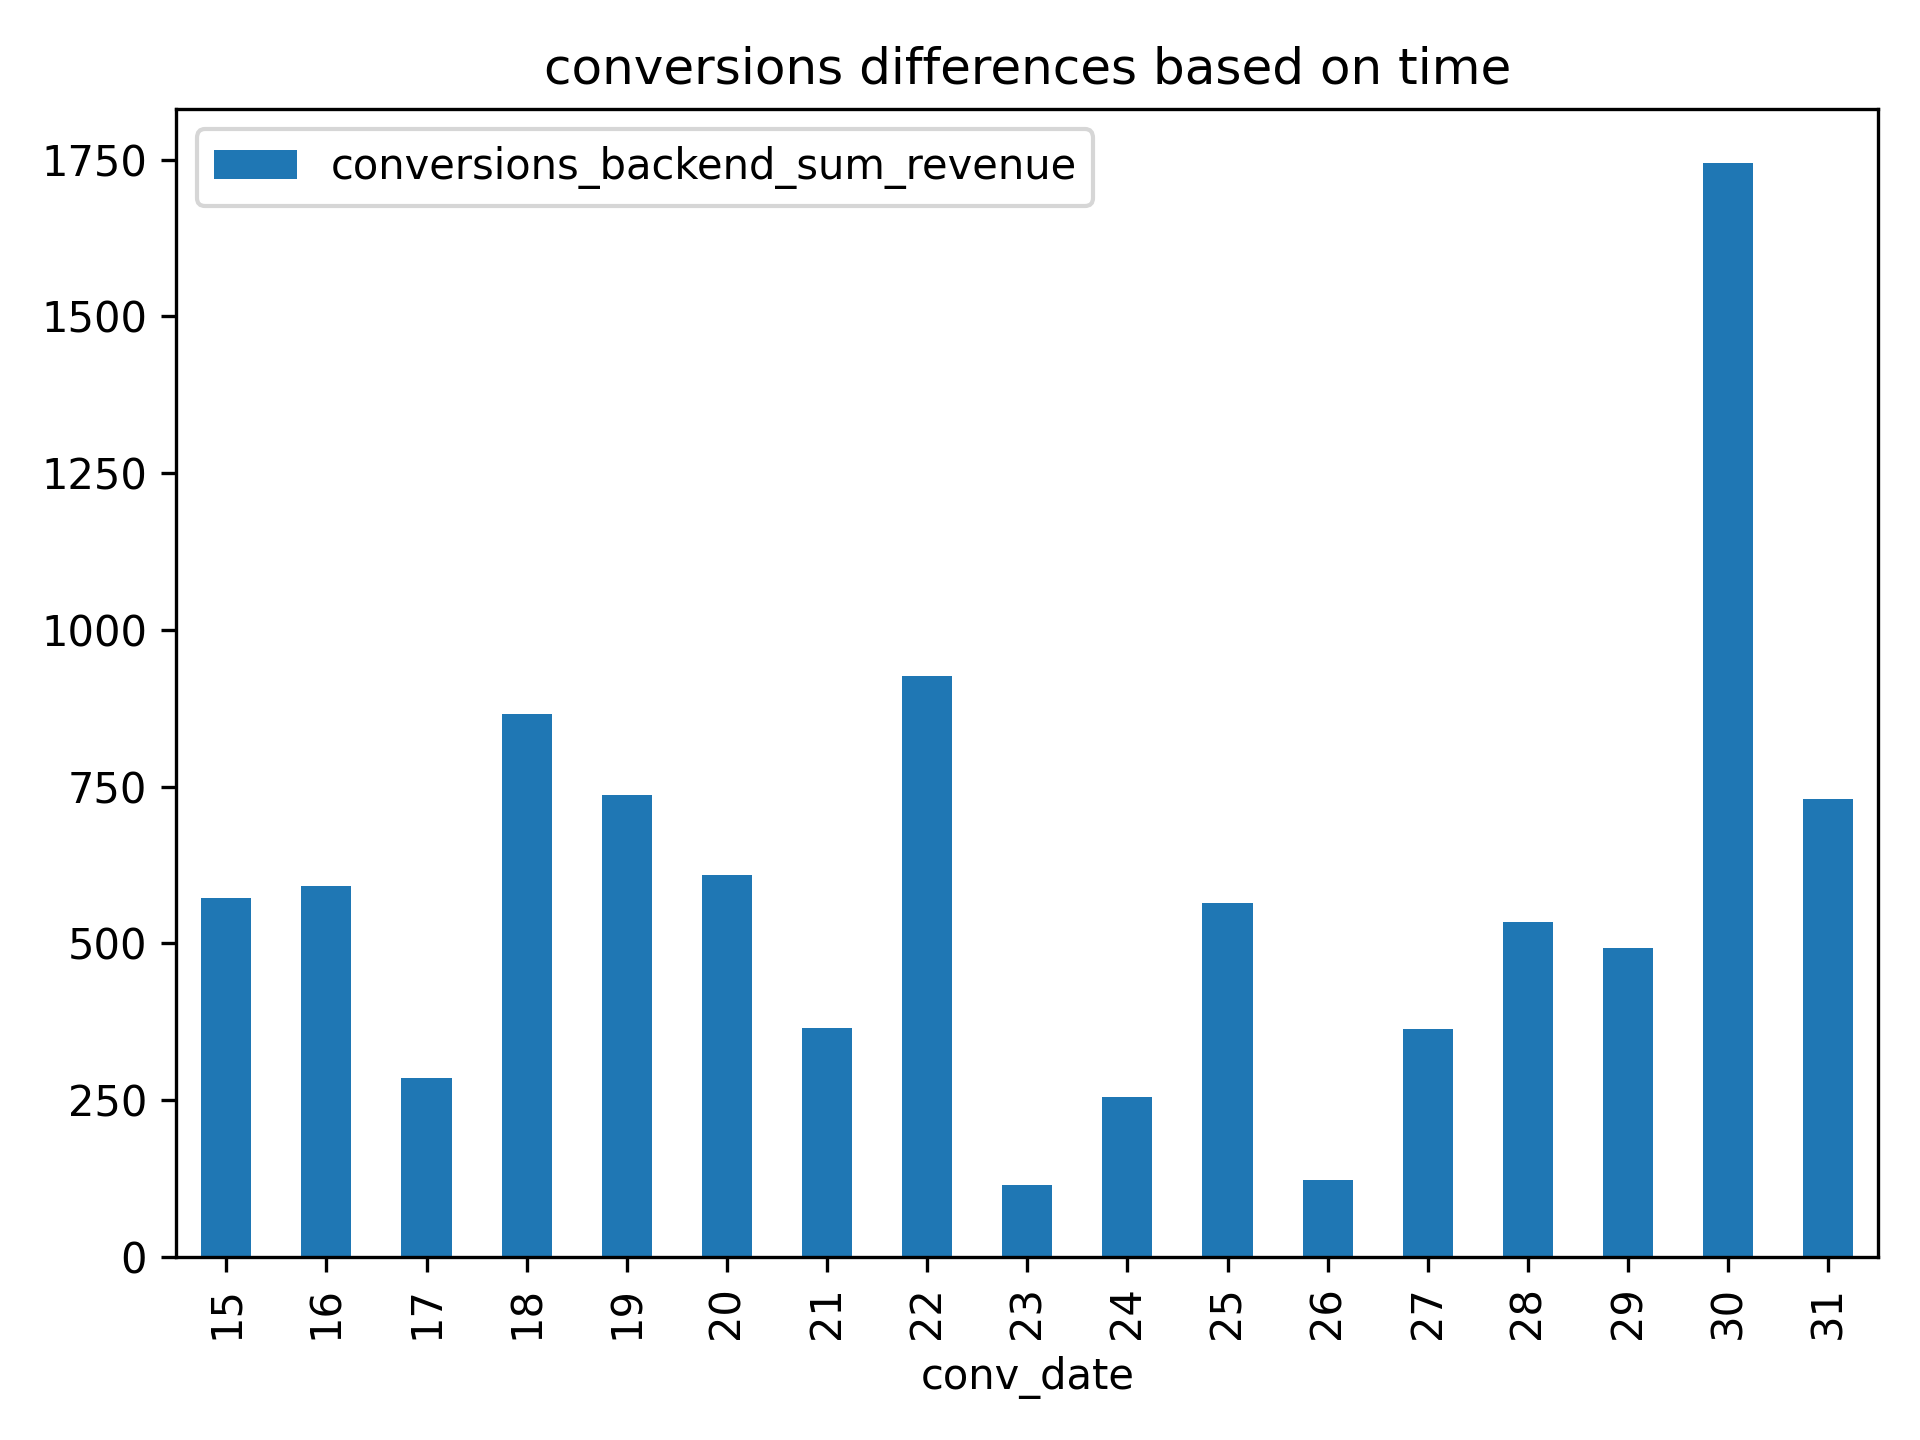
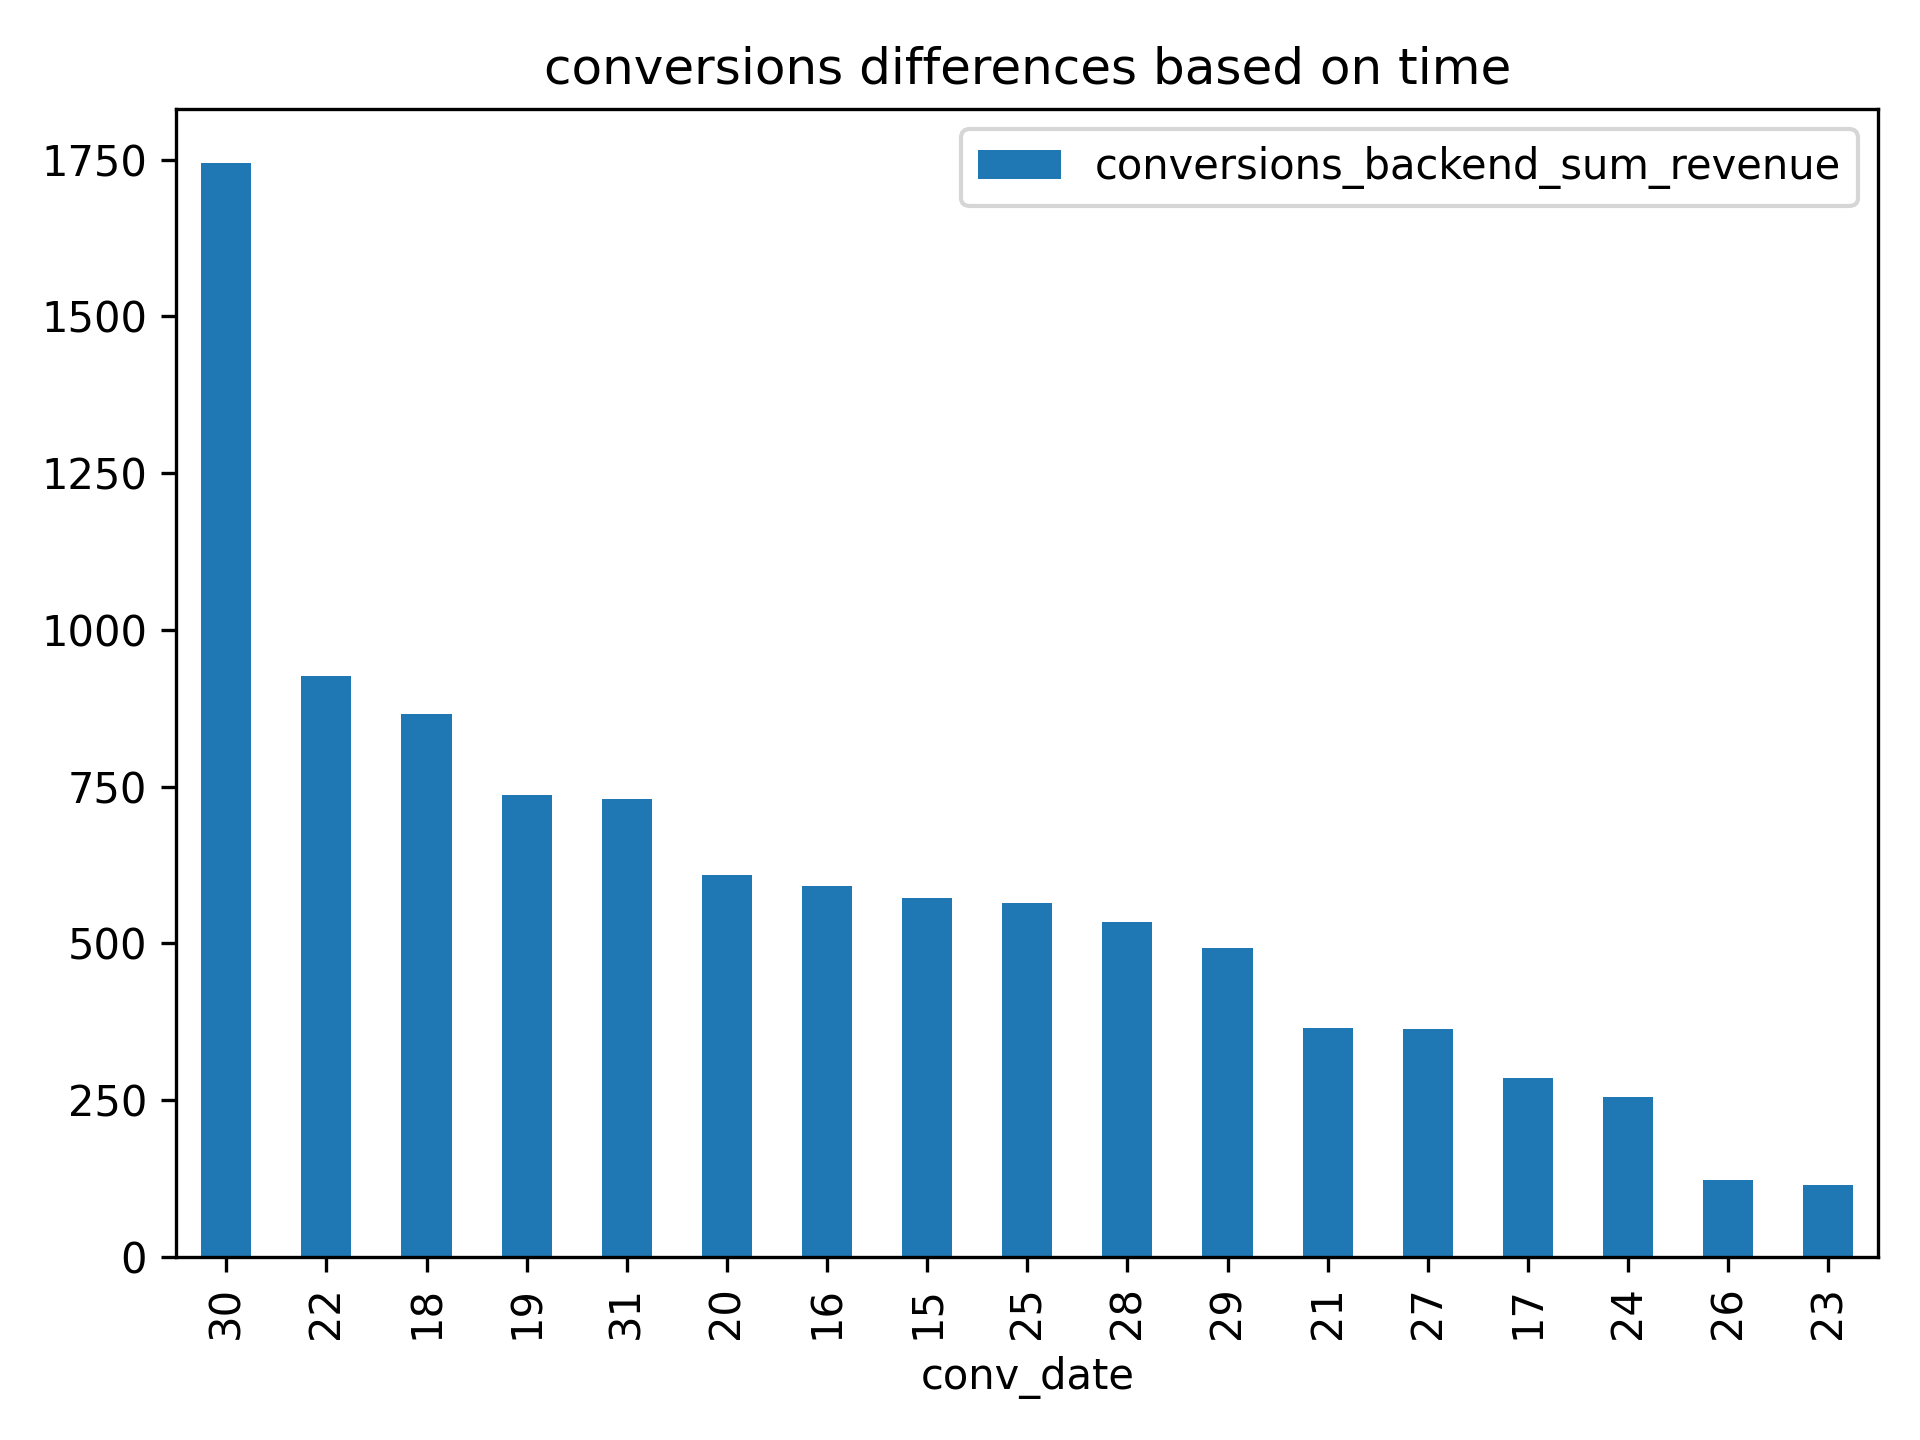
complete the comments

diff --git a/challenge.py b/challenge.py
@@ -18,6 +18,7 @@ def question1(con : sqlite3.Connection):
     # It is important to know combination of event_date and campaign_id columns make an unique index in 'api_adwords_costs' table
     # Since for every 'event_date' and 'campaign_id' in 'api_adwords_costs' table there are several sessions and cpc s in the 'session_sources' table, we have to calculate the average of their cpc to multiply to clicks
     query = """select api_adwords_costs.event_date,api_adwords_costs.campaign_id, sum(distinct api_adwords_costs.cost) as cost_from_api_adwords_costs, ROUND(cast(coalesce(avg(session_sources.cpc),0) as numeric)*sum(distinct api_adwords_costs.clicks), 3) as cost_from_session_sources
+                , ROUND(cast(coalesce(avg(session_sources.cpc),0) as numeric)*sum(distinct api_adwords_costs.clicks), 3) - sum(distinct api_adwords_costs.cost) as difference
                 from api_adwords_costs left join session_sources on session_sources.event_date = api_adwords_costs.event_date and session_sources.campaign_id = api_adwords_costs.campaign_id
                 group by api_adwords_costs.event_date,api_adwords_costs.campaign_id"""
 
@@ -49,6 +50,11 @@ def question1(con : sqlite3.Connection):
     # Save the image file
     plt.savefig(fname=f"output/cost_comparison_based_on_event_date.png", format="png", dpi = fig.dpi)  
 
+    # Print 5 records from +/- sides which have the most difference 
+    sorted_date = data_groupby.sort_values(["difference"],ascending=False)
+    print(f"Cost comparison based on event_date:\n{sorted_date.head(5)}")
+    print(f"Cost comparison based on event_date:\n{sorted_date.tail(5)}")
+
     # Clear the plot canvas
     plt.clf()
 
@@ -67,24 +73,29 @@ def question1(con : sqlite3.Connection):
     # Save the image file
     plt.savefig(fname=f"output/cost_comparison_based_on_campaign_id.png", format="png", dpi = fig.dpi)  
 
+    # Print 5 records from +/- sides which have the most difference 
+    sorted_date = data_groupby.sort_values(["difference"],ascending=False)
+    print(f"Cost comparison based on campaign_id:\n{sorted_date.head(5)}")
+    print(f"Cost comparison based on campaign_id:\n{sorted_date.tail(5)}")
+
 
 def question2(con : sqlite3.Connection):
     # Are the conversions in the 'conversions' table stable over time? Any pattern?
+    # This query returns sum of revenue for each conversion date
     query = """select conv_date, sum(revenue) as sum_revenue
                 from conversions
                 group by conv_date
                 order by conv_date"""
     
-    # plot the differences
     fig = plt.figure(figsize=(16, 9), dpi=300)
     # Get all data from the query
     data = pd.read_sql(sql=query,con=con)
     # Only show the day for better visualization
     data["conv_date"] = data["conv_date"].str[-2:]
 
+    # Plot the line of sum of revenue changes based over time
     sns.lineplot(data, x="conv_date", y="sum_revenue")
     plt.title("conversions over time")
-    # plt.xlabel("")
     plt.ylabel("sum of revenue")
     plt.tight_layout(pad=1, h_pad=0.5, w_pad=0.5) 
     plt.savefig(fname=f"output/conversions_over_time.png", format="png", dpi = fig.dpi)  
@@ -92,60 +103,61 @@ def question2(con : sqlite3.Connection):
 
 def question3(con : sqlite3.Connection):
     # Double check conversions ('conversions' table) with backend ('conversions_backend' table), any issues?
+    # This query returns the comparison between sum of conversion from conversions and backend based on conv_date
     query_conv_date = """select conversions.conv_date as conv_date, sum(conversions.revenue) as conversions_sum_revenue, sum(conversions_backend.revenue) as conversions_backend_sum_revenue
                         from conversions inner join conversions_backend on conversions.conv_id = conversions_backend.conv_id
                         group by conversions.conv_date
                         order by conv_date"""
     
-    # plot the differences
     fig = plt.figure(figsize=(16, 9), dpi=300)
     # Get all data from the query
     data = pd.read_sql(sql=query_conv_date,con=con)
     # Only show the day for better visualization
     data["conv_date"] = data["conv_date"].str[-2:]
 
+    # Bar plot to campare revenues
     data.plot.bar(x="conv_date", y=["conversions_sum_revenue", "conversions_backend_sum_revenue"])
     plt.title("conversions over time")
     plt.tight_layout(pad=1, h_pad=0.5, w_pad=0.5) 
     plt.savefig(fname=f"output/conversions_vs_backend_conv_date.png", format="png", dpi = fig.dpi)  
 
-
+    # This query returns the comparison between sum of conversion from conversions and backend based on market
     query_market = """select conversions.market as market, sum(conversions.revenue) as conversions_sum_revenue, sum(conversions_backend.revenue) as conversions_backend_sum_revenue
                         from conversions inner join conversions_backend on conversions.conv_id = conversions_backend.conv_id
                         group by conversions.market
                         order by market"""
     
-    # plot the differences
     fig = plt.figure(figsize=(16, 9), dpi=300)
     # Get all data from the query
     data = pd.read_sql(sql=query_market,con=con)
 
+    # Bar plot to campare revenues
     data.plot.bar(x="market", y=["conversions_sum_revenue", "conversions_backend_sum_revenue"])
     plt.title("conversions over market")
     plt.tight_layout(pad=1, h_pad=0.5, w_pad=0.5) 
     plt.savefig(fname=f"output/conversions_vs_backend_market.png", format="png", dpi = fig.dpi)  
 
-
+    # This query returns the differences between to tables based on conv_date order by difference amount
     query_conv_date = """select conv_date, sum(conversions_backend_revenue) as conversions_backend_sum_revenue
                         from(select conversions.conv_date as conv_date, conversions.market as market, conversions.revenue as conversions_revenue, conversions_backend.revenue as conversions_backend_revenue
                         from conversions cross join conversions_backend on conversions.conv_id = conversions_backend.conv_id
                         where conversions.revenue <> conversions_backend.revenue) as q
                         group by conv_date
-                        order by conv_date"""
+                        order by conversions_backend_sum_revenue desc"""
     
-    # plot the differences
     fig = plt.figure(figsize=(16, 9), dpi=300)
     # Get all data from the query
     data = pd.read_sql(sql=query_conv_date,con=con)
     # Only show the day for better visualization
     data["conv_date"] = data["conv_date"].str[-2:]
 
+     # Bar plot to show the amount of differences
     data.plot.bar(x="conv_date", y=["conversions_backend_sum_revenue"])
     plt.title("conversions differences based on time")
     plt.tight_layout(pad=1, h_pad=0.5, w_pad=0.5) 
     plt.savefig(fname=f"output/conversions_differnces_conv_date.png", format="png", dpi = fig.dpi)  
 
-
+    # This query returns the differences between to tables based on market order by difference amount
     query_market = """select market, sum(conversions_backend_revenue) as conversions_backend_sum_revenue
                     from(select conversions.conv_date as conv_date, conversions.market as market, conversions.revenue as conversions_revenue, conversions_backend.revenue as conversions_backend_revenue
                     from conversions cross join conversions_backend on conversions.conv_id = conversions_backend.conv_id
@@ -153,11 +165,11 @@ def question3(con : sqlite3.Connection):
                     group by market
                     order by conversions_backend_sum_revenue desc"""
 
-    # plot the differences
     fig = plt.figure(figsize=(16, 9), dpi=300)
     # Get all data from the query
     data = pd.read_sql(sql=query_market,con=con)
 
+    # Bar plot to show the amount of differences
     data.plot.bar(x="market", y=["conversions_backend_sum_revenue"])
     plt.title("conversions differences based on market")
     plt.tight_layout(pad=1, h_pad=0.5, w_pad=0.5) 
@@ -166,6 +178,7 @@ def question3(con : sqlite3.Connection):
 
 def question4(con : sqlite3.Connection):
     # Are attribution results consistent? Do you find any conversions where the 'ihc' values don't make sense?
+    # This query returns the sum of ihc for every conv_id which should be 1. The results with value not equal to 1 are considered as inconsistency
     query = """select conv_id, round(sum(ihc)) as sum_ihc
                 from attribution_customer_journey
                 group by conv_id
@@ -173,10 +186,12 @@ def question4(con : sqlite3.Connection):
     
     # Get all data from the query
     data = pd.read_sql(sql=query,con=con)
-    print(data)
+    print(f"Attributions with inconsistent ihc sum:\n{data}")
 
 def question5_subplot(df : pd.DataFrame, sub_index : int, channel_name : str):
+    # This function is responsible to create the subplot and prevents code redundancy
     plt.subplot(5,1,sub_index)
+    # Only show the day for better visualization
     df["event_date"] = df["event_date"].str[-2:]
     sns.lineplot(df, x="event_date", y="session_count")
     plt.title(channel_name)
@@ -185,6 +200,8 @@ def question5_subplot(df : pd.DataFrame, sub_index : int, channel_name : str):
 
 def question5(con : sqlite3.Connection):
     # (Bonus) Do we have an issue with channeling? Are the number of sessions per channel stable over time?
+    # This query returns the count of sessions based on channel_name and event_date
+    # Since there are some duplicate channel names which present in the table with different names, they are unified with case when block
     query = """select channel_name , event_date, coalesce(count(session_id),0) as session_count
                 from(select case when channel_name = "Affiliates" then "Affiliate" 
                 when channel_name = "Direct" then "Direct Traffic" 
@@ -203,22 +220,28 @@ def question5(con : sqlite3.Connection):
     data = pd.read_sql(query,con=con)
     data.sort_values(["channel_name", "event_date"])
 
+    # This code block is responsible for creating subplot for each channel_name, and shows the number of sessions over time
     i = 0
     sub_index = 1
     df = pd.DataFrame()
     channel_name = data.loc[i,"channel_name"]
     fig = plt.figure(figsize=(16, 9), dpi=300)
+    # Loop over all records
     while i < data.shape[0] :
         if channel_name != data.loc[i,"channel_name"]:
+            # Create a subplot for the channel_name
             question5_subplot(df, sub_index, channel_name)
             if sub_index % 5 == 0:
                 plt.tight_layout(pad=1, h_pad=0.5, w_pad=0.5) 
+                # Save the sob plot to a file
                 plt.savefig(fname=f"output/channel_session_count{i}.png", format="png", dpi = fig.dpi)
                 sub_index = 0
                 plt.clf()
             sub_index += 1
+            # Clear the dataframe
             df.drop(axis="index", index=df.index, inplace=True) 
 
+        # add the record to a new dataframe
         channel_name = data.loc[i,"channel_name"]
         row = df.shape[0]
         df.loc[row,"event_date"] = data.loc[i,"event_date"]
@@ -226,11 +249,13 @@ def question5(con : sqlite3.Connection):
 
         i += 1
 
+    # Create a subplot for the channel_name
     question5_subplot(df, sub_index, channel_name)
     sub_index += 1
     df.drop(axis="index", index=df.index, inplace=True) 
 
     plt.tight_layout(pad=1, h_pad=0.5, w_pad=0.5) 
+    # Save the sob plot to a file
     plt.savefig(fname=f"output/channel_session_count{i}.png", format="png", dpi = fig.dpi)
 
 
